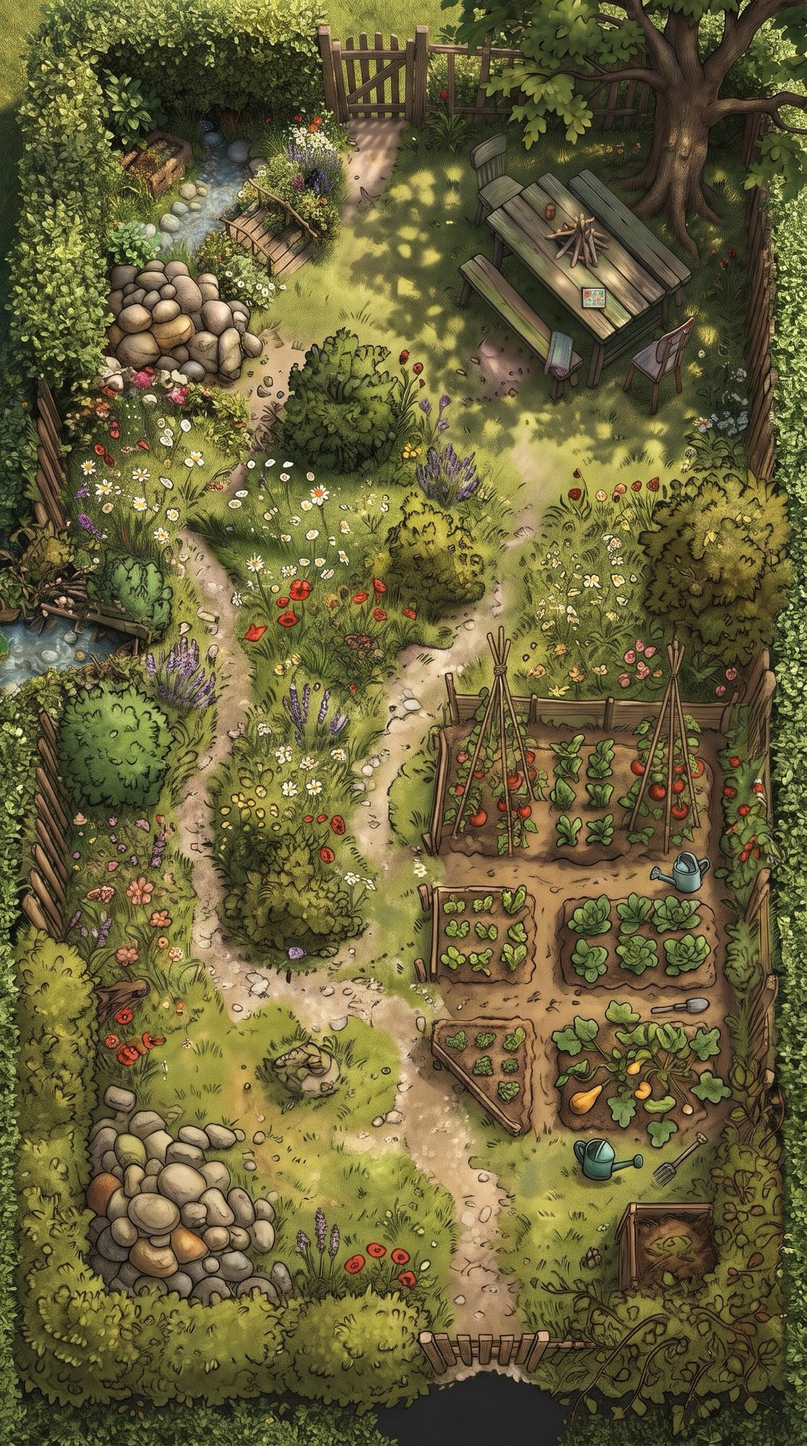
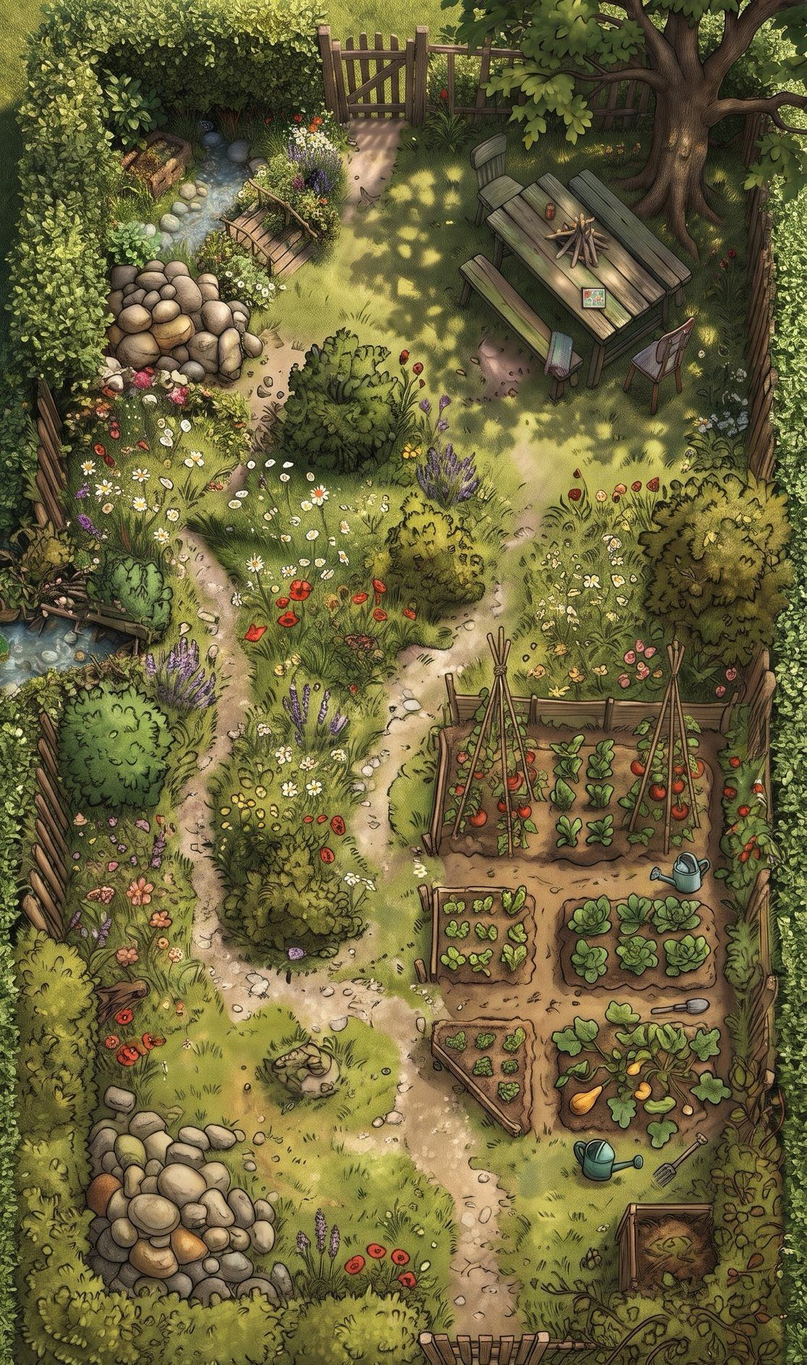
Garden: only the gates for now (the games are put away); tap anywhere else and the light dissolves day → sunset → night; birdsong fades in very slowly; the grey patch below the bottom gate cut off; sideways the garden lies on its side; lighter maps
Claude-Session: https://claude.ai/code/session_01NDsvQ4w6b4M39K7iEhCswz

diff --git a/src/screens/Garden.js b/src/screens/Garden.js
@@ -11,26 +11,28 @@ import { colors } from '../theme';
 import { useT } from '../i18n';
 import { withTap } from '../haptics';
 import { pinwheelWhirr, playGarden, playPebble } from '../sound';
+import { createAudioPlayer } from 'expo-audio';
 
-// Jörg's garden, 1116 × 1999 (it fills the screen edge to edge), as the day goes: in daylight, in the golden evening, and at night under the lights
+// Jörg's garden, 1116 × 1886 (it fills the screen edge to edge), as the day goes: in daylight, in the golden evening, and at night under the lights
 const MAPS = {
   day: [require('../../assets/garden/map-day.jpg'), '#5e693e'],
   evening: [require('../../assets/garden/map-evening.jpg'), '#62482f'],
   night: [require('../../assets/garden/map-night.jpg'), '#0d1e28'],
 };
 const timeOfDay = (d = new Date()) => { const hash = typeof window !== 'undefined' && window.location ? window.location.hash || '' : ''; if (/night|evening|day/.test(hash)) return hash.match(/night|evening|day/)[0]; /* (web preview screenshots) */ const h = d.getHours(); return h >= 6 && h < 17 ? 'day' : h >= 17 && h < 20 ? 'evening' : 'night'; };
-const MAP_AR = 1116 / 1999;
-// the places to tap, as parts of the map (left, top, right, bottom)
+const MAP_AR = 1116 / 1886; // (the grey patch below the bottom gate is cut off)
+const ORDER = ['day', 'evening', 'night'];
+// the places to tap, as parts of the map (left, top, right, bottom). For now only the gates: the games aren't ready
 const SPOTS = [
-  { game: 'pebbles', box: [0.12, 0.17, 0.33, 0.27], label: 'The rocks' }, // the rock pile at the top
-  { game: 'pebbles', box: [0.1, 0.74, 0.37, 0.9], label: 'The rocks' }, // the big rock pile at the bottom
-  // (the woodpile, sticks and dominoes on the picnic table, is put away for now: Jörg will send new cut-outs)
-  // { game: 'sticks', box: [0.57, 0.1, 0.86, 0.28], label: 'The woodpile' }, // the sticks on the picnic table
-  // { game: 'sticks', box: [0.14, 0.08, 0.25, 0.13], label: 'The woodpile' }, // the wooden crate by the gate
-  { game: 'home', box: [0.38, 0.0, 0.53, 0.09], label: 'My Library' }, // the gate at the top: back to the books
-  { game: 'home', box: [0.5, 0.88, 0.7, 0.96], label: 'My Library' }, // the gate at the bottom
-  { game: 'pinwheel', box: [0.1, 0.3, 0.5, 0.46], label: 'The flowers' }, // the flower meadow along the path
+  { game: 'home', box: [0.38, 0.0, 0.53, 0.095], label: 'My Library' }, // the gate at the top: back to the books
+  { game: 'home', box: [0.48, 0.86, 0.72, 1.0], label: 'My Library' }, // the gate at the bottom
+  // (put away until they're ready)
+  // { game: 'pebbles', box: [0.12, 0.18, 0.33, 0.29], label: 'The rocks' },
+  // { game: 'pebbles', box: [0.1, 0.78, 0.37, 0.95], label: 'The rocks' },
+  // { game: 'sticks', box: [0.57, 0.11, 0.86, 0.3], label: 'The woodpile' },
+  // { game: 'pinwheel', box: [0.1, 0.32, 0.5, 0.49], label: 'The flowers' },
 ];
+const BIRDS = require('../../assets/ambient/forest-birds.mp3'); // birdsong, fading in very slowly while you're in the garden
 
 export default function Garden({ u, openMenu, toast, onHome }) {
   const t = useT();
@@ -40,17 +42,41 @@ export default function Garden({ u, openMenu, toast, onHome }) {
     if (g === 'home') { onHome && onHome(); return; }
     setGame(g);
   };
+  // the light: it starts as the time of day, and a tap anywhere else in the garden dissolves to the next
+  // (day → sunset → night → day)
   const [tod, setTod] = useState(timeOfDay());
-  useEffect(() => { const id = setInterval(() => setTod(timeOfDay()), 60000); return () => clearInterval(id); }, []);
+  const [prev, setPrev] = useState(null); // the picture dissolving away
+  const fade = useRef(new Animated.Value(0)).current;
+  const nextLight = () => {
+    const n = ORDER[(ORDER.indexOf(tod) + 1) % ORDER.length];
+    setPrev(tod); setTod(n);
+    fade.setValue(1);
+    Animated.timing(fade, { toValue: 0, duration: 1600, easing: Easing.inOut(Easing.quad), useNativeDriver: true }).start(({ finished }) => { if (finished) setPrev(null); });
+  };
+  // birdsong: starts silent and comes up very slowly; goes quiet when you leave
+  useEffect(() => {
+    let p = null, id = null, v = 0;
+    try {
+      p = createAudioPlayer(BIRDS); p.loop = true; p.volume = 0; p.play();
+      id = setInterval(() => { v = Math.min(0.55, v + 0.005); try { p.volume = v; } catch (e) {} if (v >= 0.55) clearInterval(id); }, 200); // about 22 seconds to full
+    } catch (e) {}
+    return () => { clearInterval(id); try { p && p.pause(); p && p.remove(); } catch (e) {} };
+  }, []);
   const [MAP, MAP_BG] = MAPS[tod];
   let map = null;
   if (area) {
-    const w = Math.max(area.w, area.h * MAP_AR), h = w / MAP_AR; // fills the screen (only the dark edge of the picture is cut)
+    // sideways the garden lies on its side (its top gate on the left), so the whole of it still fills the screen
+    const side = area.w > area.h;
+    const W0 = side ? area.h : area.w, H0 = side ? area.w : area.h; // the room, in the garden's own upright frame
+    const w = Math.max(W0, H0 * MAP_AR), h = w / MAP_AR;
     const l = (area.w - w) / 2, tp = (area.h - h) / 2;
     map = (
-      <View style={{ position: 'absolute', left: l, top: tp, width: w, height: h }}>
-        <Image source={MAP} style={{ width: w, height: h }} resizeMode="cover" />
-        {tod === 'night' ? <Fireflies w={w} h={h} /> : null}
+      <View style={{ position: 'absolute', left: l, top: tp, width: w, height: h, transform: side ? [{ rotate: '-90deg' }] : [] }}>
+        <Pressable onPress={nextLight} accessibilityRole="button" accessibilityLabel={t('Change the light')} style={StyleSheet.absoluteFill}>
+          <Image source={MAP} style={{ width: w, height: h }} resizeMode="cover" fadeDuration={0} />
+          {prev ? <Animated.Image source={MAPS[prev][0]} style={{ position: 'absolute', left: 0, top: 0, width: w, height: h, opacity: fade }} resizeMode="cover" fadeDuration={0} /> : null}
+        </Pressable>
+        {tod === 'night' ? <View pointerEvents="none" style={StyleSheet.absoluteFill}><Fireflies w={w} h={h} /></View> : null}
         {SPOTS.map((s, i) => (
           <Pressable key={i} onPress={withTap(() => open(s.game))} accessibilityRole="button" accessibilityLabel={t(s.label)}
             style={{ position: 'absolute', left: s.box[0] * w, top: s.box[1] * h, width: (s.box[2] - s.box[0]) * w, height: (s.box[3] - s.box[1]) * h }} />
@@ -60,7 +86,7 @@ export default function Garden({ u, openMenu, toast, onHome }) {
   }
   return (
     <WithBar style={styles.screen} bar={(v) => <Bar u={u} vertical={v}><Burger u={u} onPress={openMenu} vertical={v} /></Bar>}>
-      <View style={{ flex: 1, backgroundColor: MAP_BG }} onLayout={(e) => setArea({ w: e.nativeEvent.layout.width, h: e.nativeEvent.layout.height })}>
+      <View style={{ flex: 1, backgroundColor: MAP_BG, overflow: 'hidden' }} onLayout={(e) => setArea({ w: e.nativeEvent.layout.width, h: e.nativeEvent.layout.height })}>
         {map}
         {game === 'pebbles' && area ? <Pebbles area={area} onBack={() => setGame(null)} /> : null}
         {game === 'sticks' && area ? <Driftwood area={area} onBack={() => setGame(null)} /> : null}
